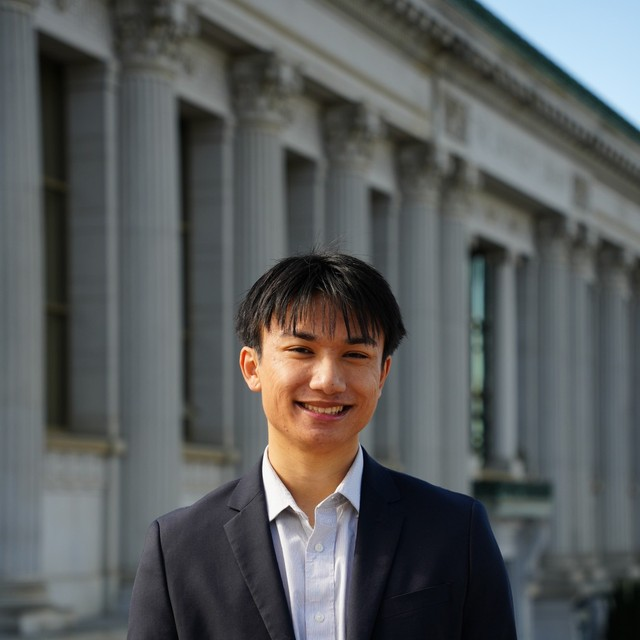
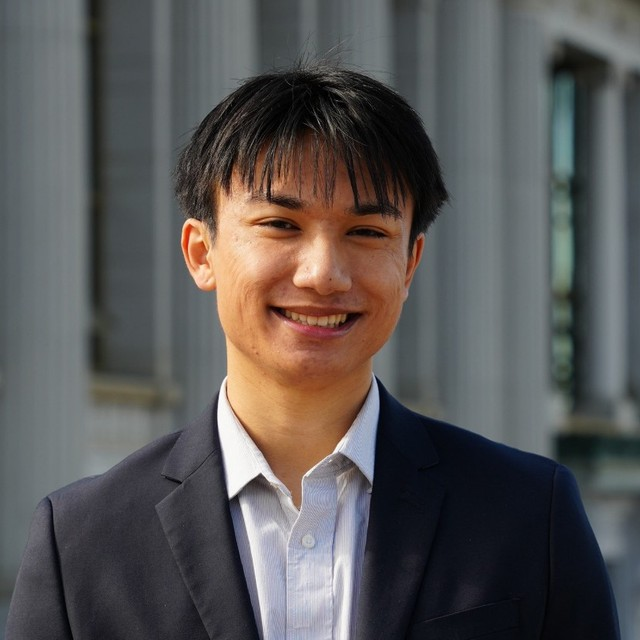
Re-crop team headshots for consistent face centering, add LinkedIn to footer
Re-crop all nine executive/director headshots using face-detection-
based centering so everyone's face sits at a consistent size and
position within the circular frame, and swap in a sharper photo for
Eric. Also add a LinkedIn link to the home page footer's Contact
column, pointing at the club's company page.

diff --git a/src/components/Footer.tsx b/src/components/Footer.tsx
@@ -53,6 +53,9 @@ export default function Footer() {
           <a href="https://www.instagram.com/berkeleyccg/" className="footer-link">
             Instagram
           </a>
+          <a href="https://www.linkedin.com/company/berkeleyccg/" className="footer-link">
+            LinkedIn
+          </a>
         </div>
       </div>
       <div style={{ maxWidth: 1180, margin: '0 auto', padding: '0 40px 40px' }}>
